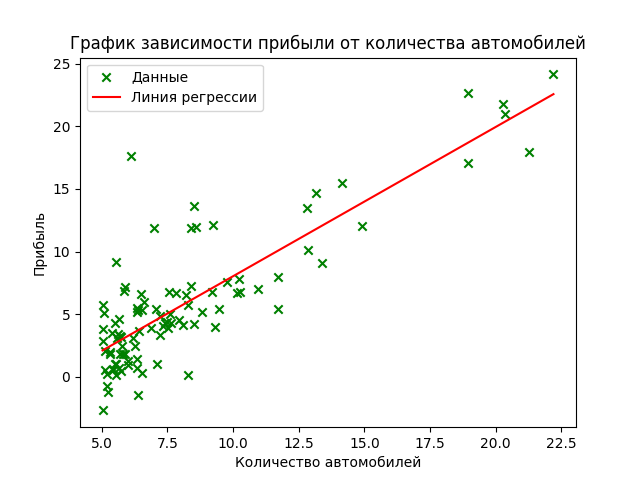
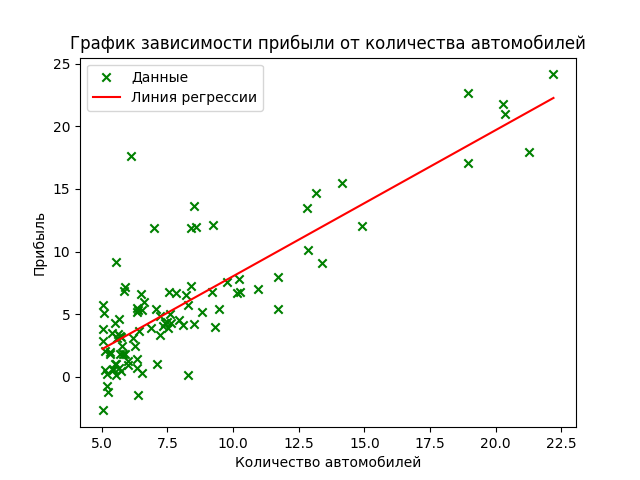
ь

diff --git a/lab-1/gradient_descent.py b/lab-1/gradient_descent.py
@@ -11,21 +11,20 @@ def gradient_descent_vector(x, y, theta, alpha, iterations):
     return theta
 
 
-def gradient_descent_elements(x, y, theta, alpha, iterations):
+def gradient_descent_elements(X, y, theta, alpha, iterations):
     m = len(y)
+    n = len(theta)
 
     for _ in range(iterations):
-        predictions = np.zeros(m)
-        errors = np.zeros(m)
-
-        for i in range(m):
-            predictions[i] = x[i].dot(theta)
-            errors[i] = predictions[i] - y[i]
-
-        for j in range(len(theta)):
-            gradient = 0
+        temp_theta = np.copy(theta)
+        for j in range(n):
+            sum_error = 0
             for i in range(m):
-                gradient += errors[i] * x[i][j]
-            theta[j] -= (alpha / m) * gradient
-
+                prediction = 0
+                for k in range(0, n):
+                    prediction += theta[k] * X[i][k]
+                error = prediction - y[i]
+                sum_error += error * X[i][j - 1] if j > 0 else error
+            temp_theta[j] -= (alpha / m) * sum_error
+        theta = temp_theta
     return theta

diff --git a/lab-1/compute_cost.py b/lab-1/compute_cost.py
@@ -9,14 +9,23 @@ def compute_cost_vector(x, y, theta):
     return cost
 
 
-def compute_cost_elements(x, y, theta):
-    m = len(y)
+def compute_cost_elements(X, Y, theta):
+    m = len(Y)
     total_cost = 0
 
     for i in range(m):
-        prediction = x[i].dot(theta)
-        error = prediction - y[i]
+        prediction = 0
+
+        for j in range(len(theta)):
+            prediction += theta[j] * X[i][j]
+        error = 0
+        for j in range(len(theta)):
+            error += (theta[j] * X[i][j])
+
+        error -= Y[i]
         total_cost += error ** 2
 
     cost = (1 / (2 * m)) * total_cost
     return cost
+
+

diff --git a/lab-1/ex1.py b/lab-1/ex1.py
@@ -5,10 +5,9 @@ import warm_up_exercise
 import work
 import plot_data
 
-size = int(input("Введите размерность матрицы:"))
-
-warm_up_exercise.warmup_exercise_built_in(size)
-warm_up_exercise.warmup_exercise_manual(size)
+#size = int(input("Введите размерность матрицы:"))
+#warm_up_exercise.warmup_exercise_built_in(size)
+#warm_up_exercise.warmup_exercise_manual(size)
 
 data = np.loadtxt('train_data.txt', delimiter=',')
 X = data[:, 0]
